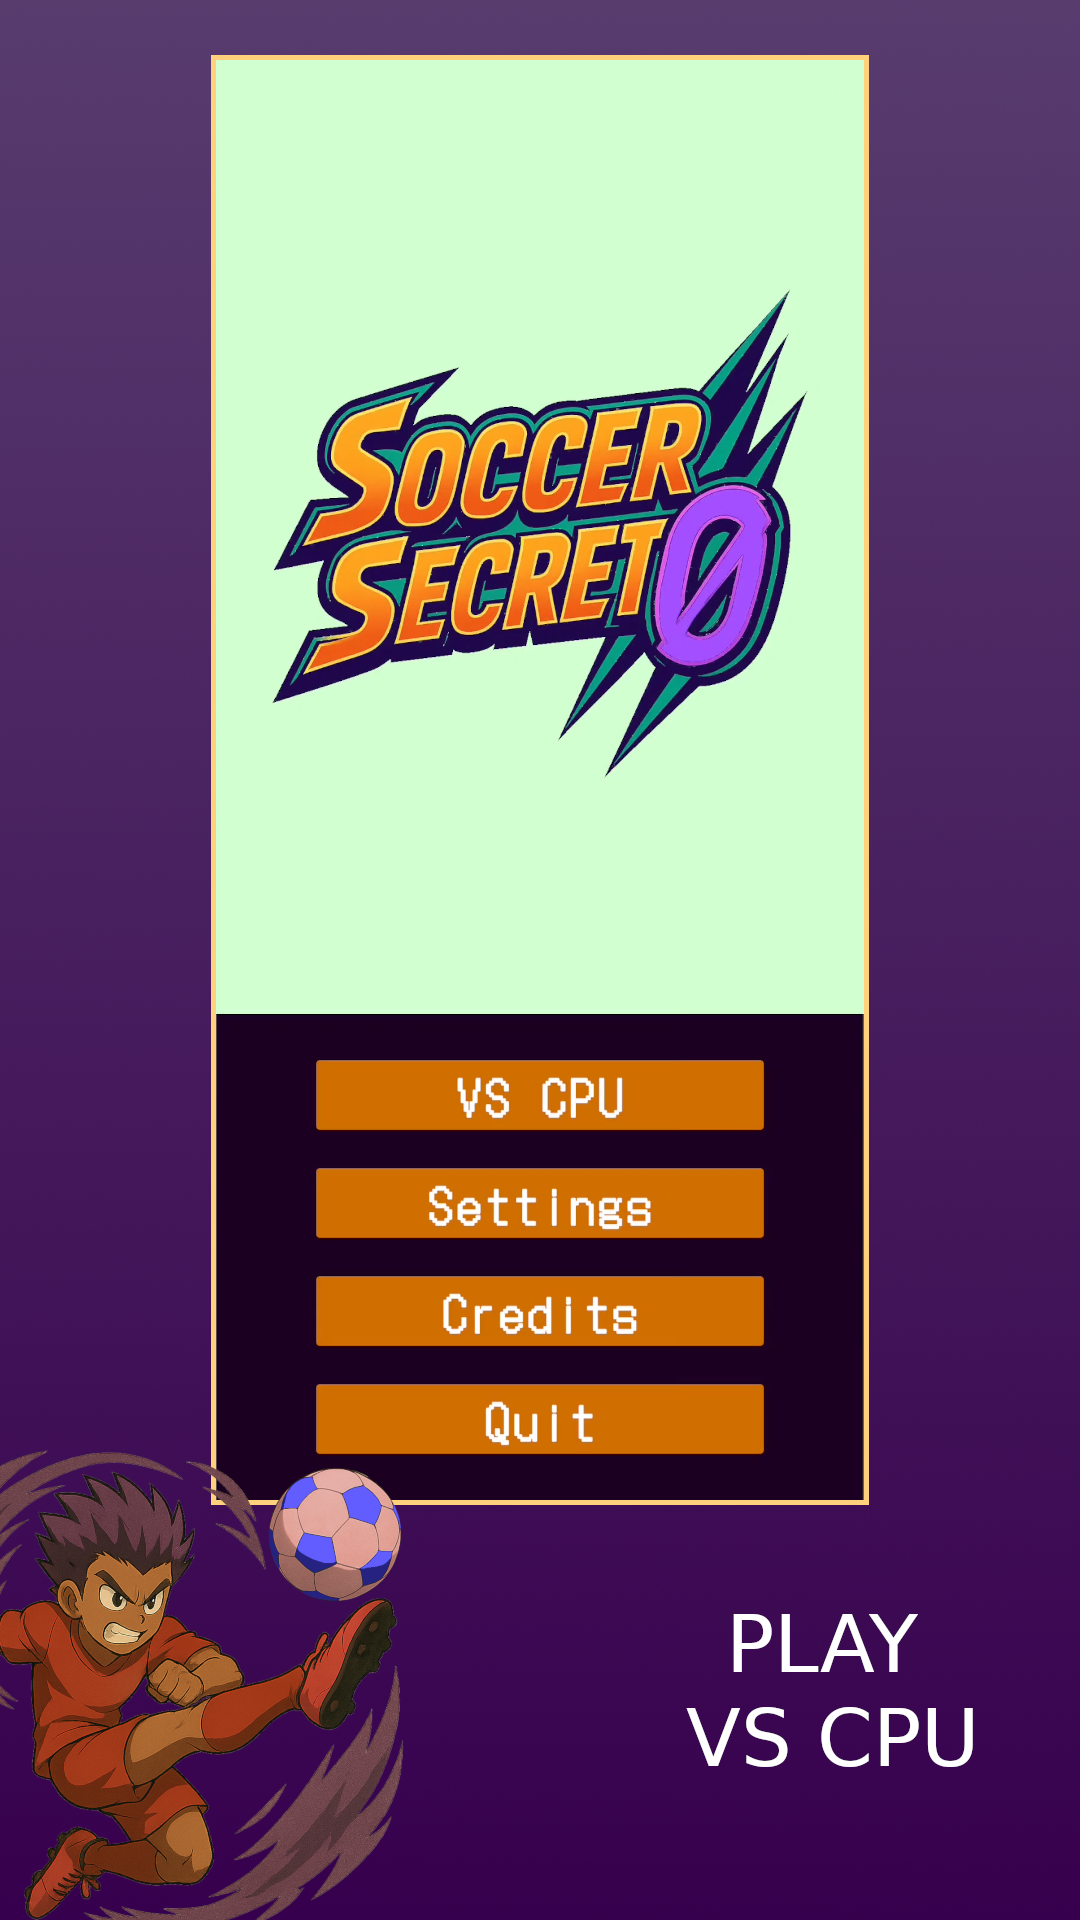
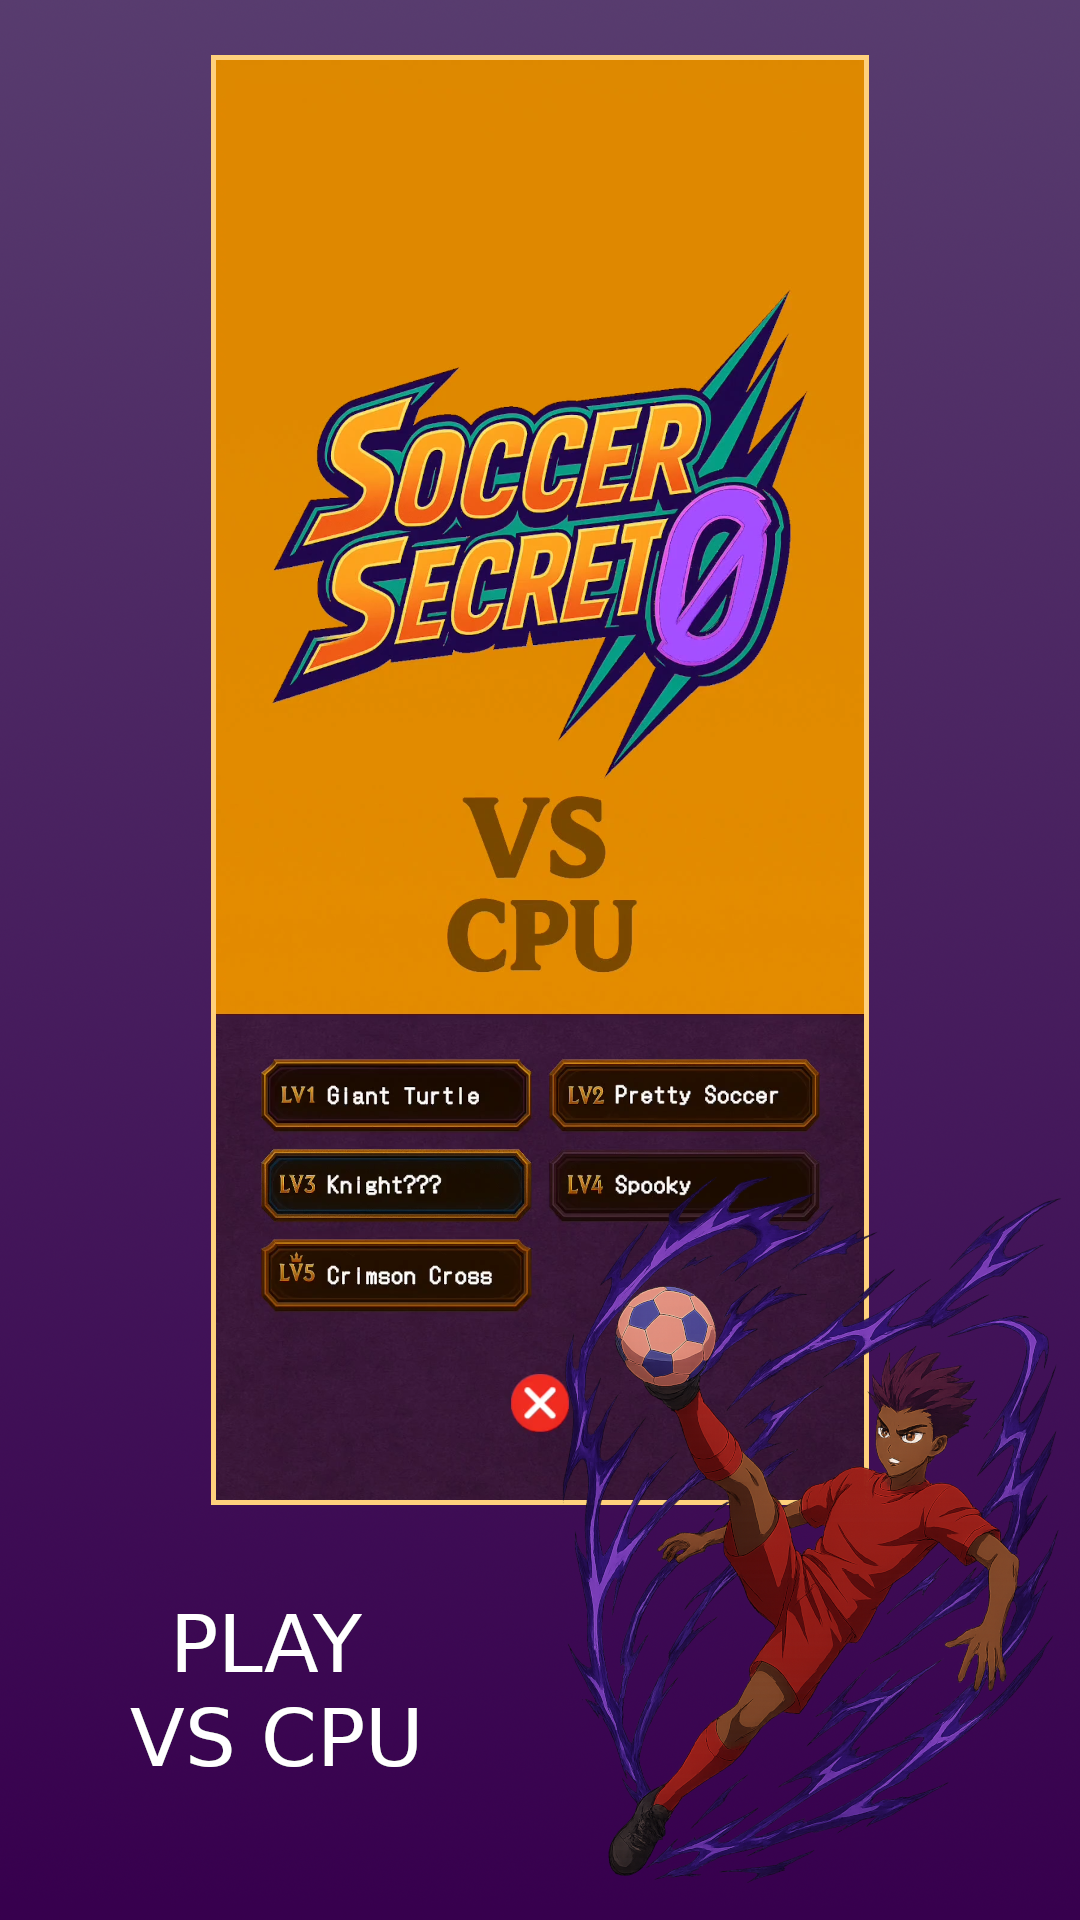
MKT-4

diff --git a/README.md b/README.md
@@ -18,11 +18,23 @@
 - **Image Generation:** DALL·E 3  
 - **Music Generation:** [Enzostvs Ai-jukebox](https://huggingface.co/spaces/enzostvs/ai-jukebox)
 
-![Screenshot](Assets/Screenshots/chatgpt.png)
+### Example Prompt (Image Generation)  
+
+Create a single pixel art image featuring a 2x2 grid of four distinct team crests for a soccer game. Each crest should be in a shield shape with a bold golden-yellow border and a solid dark background, drawn in a retro pixel art style.  
+
+- **Top left crest:** a soccer ball with angel wings, blue background.  
+- **Top right crest:** a flower on a pink background, feminine style.  
+- **Bottom left crest:** a crimson cross representing an evil organization.  
+- **Bottom right crest:** a spooky ghost on a purple background.  
+
+Each crest should have its own unique subject and color palette for clarity, but all should match the overall pixel art, shield-shaped video game style, similar to classic sports emblems. The crests should be evenly spaced in a visible 2x2 grid within the single image.
 
 ---
 
 ## Changelog
+
+### Version 0.2
+- Improved "VS CPU" game mode
 
 ### Version 0.1
 - Added touch gameplay
